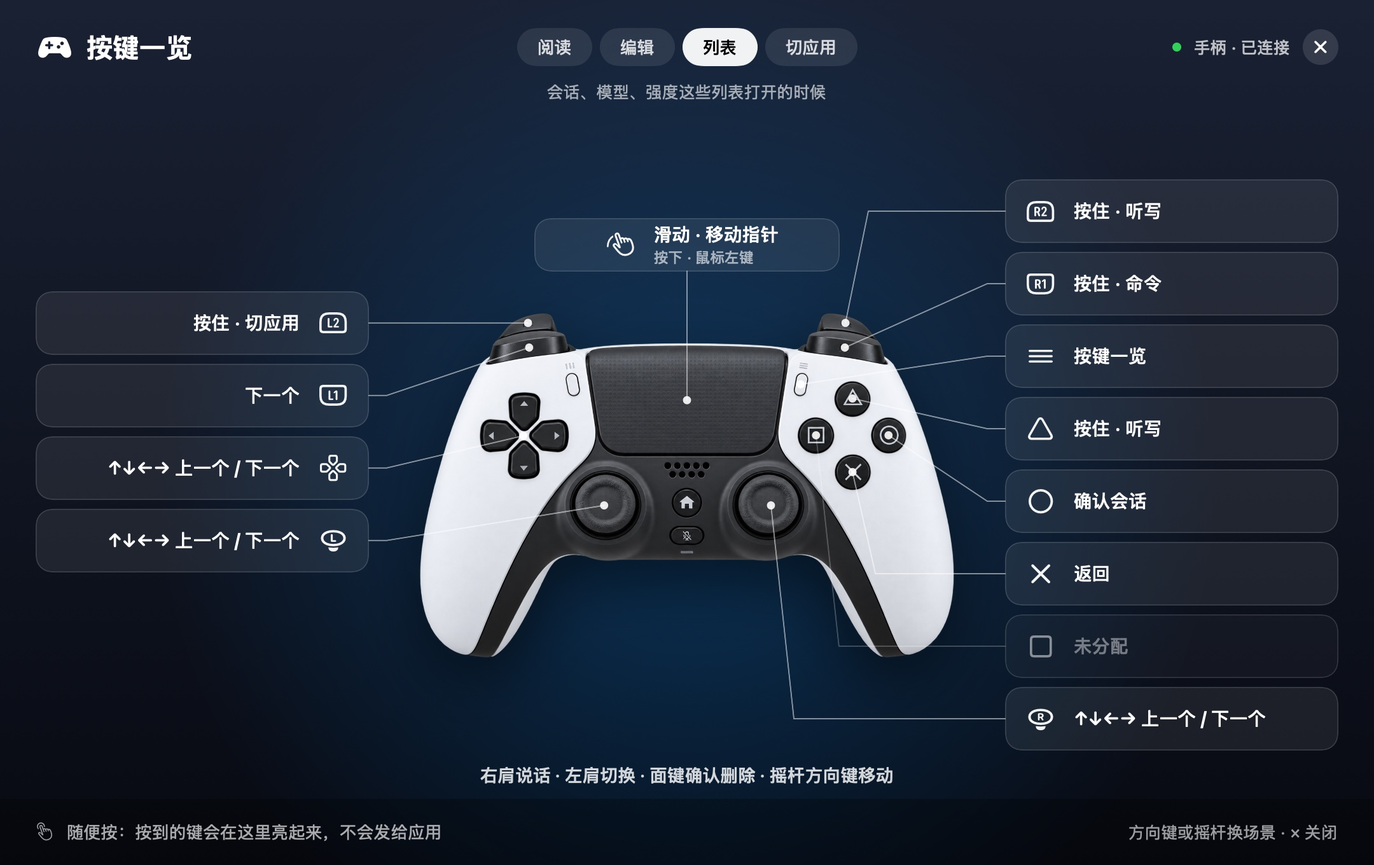
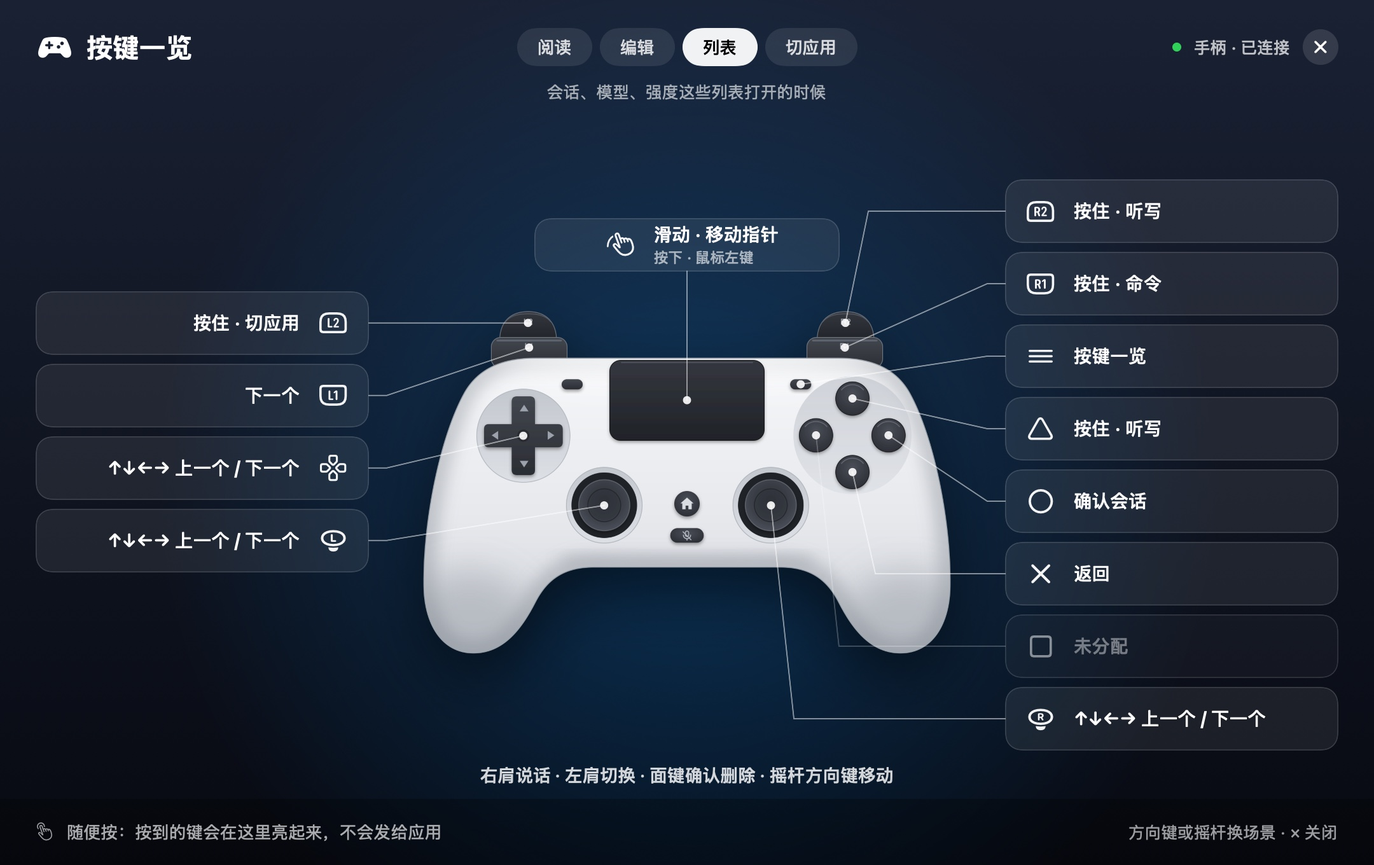
Redraw the controller picture, settle the AU05 key constants, leave a former copy running in a scripted launch
The controller picture was a generated one that had been asked for as "a
recognizable PS5-style silhouette" and carried that controller's two-tone
shell and the four symbols of its action buttons. It is replaced by a
drawing of this project's own, assets/device/gamepad.svg, rendered to
gamepad.png with rsvg-convert: a one-colour shell of a common shape with
four plain action buttons, made without any product photograph and drawn
around the same control centres, so none of the 27 hotspots moved. The
owner looked at it and approved it. The separate cut-out for the overlay,
gamepad-overlay.png, is gone; the overlay uses the same picture.

Made again with it: the cover in both languages and its copies for the
READMEs and the site, the site's device picture, and the four renderings
of the controls card (ControlsCardTests with VIBEWAND_CONTROLS_REVIEW).
Still showing the former picture: the 0.8.1 overlay screenshot in the
READMEs and on the site, the generated four-scene illustration, historical
renderings and concept pictures in the documentation, the published film,
and this repository's history. The 0.11.1 package also still carries it.

The key constants of the AU05 protocol: the owner decided to publish them
as they are. They are the key of the TEA cipher the device's reports use,
identical to those in AU05 Keys's Battery.swift and taken with attribution
under its MIT license; how that project obtained them it does not say.
[…]

Changed region(s): [[0.2792, 0.3397, 0.7134, 0.7721]]

diff --git a/Sources/VibeWandBridge/Overlay.swift b/Sources/VibeWandBridge/Overlay.swift
@@ -405,7 +405,7 @@ private final class CompanionView: NSView {
             rotationUntil = 0
             pulses.removeAll()
             scrollAccumulator = 0
-            deviceImage = state.deviceTemplate == .vibeKey ? Self.loadDeviceImage() : DeviceArtwork.forTemplate(state.deviceTemplate).overlayImage
+            deviceImage = state.deviceTemplate == .vibeKey ? Self.loadDeviceImage() : DeviceArtwork.forTemplate(state.deviceTemplate).image
             needsLayout = true
         }
         let delta = changedTemplate ? 0 : state.rotation - snapshot.rotation
@@ -418,7 +418,7 @@ private final class CompanionView: NSView {
         for control in state.pressed.subtracting(changedTemplate ? [] : snapshot.pressed) { flash(control) }
         snapshot = state
         updateSettingsButton()
-        if deviceImage == nil { deviceImage = deviceTemplate == .vibeKey ? Self.loadDeviceImage() : DeviceArtwork.forTemplate(deviceTemplate).overlayImage }
+        if deviceImage == nil { deviceImage = deviceTemplate == .vibeKey ? Self.loadDeviceImage() : DeviceArtwork.forTemplate(deviceTemplate).image }
         let demoHint = deviceTemplate == .vibeKey
             ? L10n.tr("拖动移动。演示模式可点击、长按按键或滚动旋钮。", "Drag to move. In demo mode, press or hold buttons and scroll the dial.")
             : L10n.tr("拖动移动。演示模式可点击或长按实际按键。", "Drag to move. In demo mode, click or hold the physical controls.")

diff --git a/Sources/VibeWandBridge/App.swift b/Sources/VibeWandBridge/App.swift
@@ -45,7 +45,7 @@ final class AppDelegate: NSObject, NSApplicationDelegate {
         } else if let index = arguments.firstIndex(of: "--film"), arguments.indices.contains(index + 1),
                   let director = try? FilmDirector(script: URL(fileURLWithPath: arguments[index + 1])) {
             film = director; runtime = director.makeRuntime()
-        } else { FormerIdentity.retire(); runtime = BridgeRuntime() }
+        } else { runtime = BridgeRuntime() }
         super.init()
     }
     private var overlay: OverlayController!
@@ -155,6 +155,7 @@ final class AppDelegate: NSObject, NSApplicationDelegate {
         // The guide opens by itself for someone new, and never during a scripted run of the app.
         let scripted = ["--film", "--demo", "--capture-only", "--settings", "--replay-transcript", "--replay-revision", "--vocabulary-path", "--replay-speech", "--speech-test-editor", "--diagnostics-path",
                         "--render-dark", "--render-overlay", "--render-settings", "--render-audit"].contains(where: CommandLine.arguments.contains)
+        if !scripted { FormerIdentity.retire() }
         if CommandLine.arguments.contains("--onboarding") || (guideOwed && !scripted) { presentOnboarding() }
         if CommandLine.arguments.contains("--settings") { openSettings() }
         if CommandLine.arguments.contains("--render-dark") {

diff --git a/Sources/VibeWandBridge/DeviceArtwork.swift b/Sources/VibeWandBridge/DeviceArtwork.swift
@@ -1,7 +1,8 @@
 import AppKit
 
-/// Product photographs with manually inspected control centers. Coordinates use
+/// Device pictures with manually inspected control centers. Coordinates use
 /// the full image rectangle, with the origin at its top-left, before aspect-fit.
+/// The controller is drawn in `assets/device/gamepad.svg`, around these same centers.
 struct DeviceArtwork {
     let imageName: String
     let aspectRatio: CGFloat
@@ -16,11 +17,6 @@ struct DeviceArtwork {
         let image = NSImage(contentsOf: root.appendingPathComponent("assets/device/\(imageName).png"))
         Self.imageCache[imageName] = image
         return image
-    }
-
-    @MainActor var overlayImage: NSImage? {
-        guard imageName == "gamepad" else { return image }
-        return DeviceArtwork(imageName: "gamepad-overlay", aspectRatio: aspectRatio, hotspots: hotspots).image ?? image
     }
 
     static func forTemplate(_ id: DeviceTemplateID) -> DeviceArtwork {

diff --git a/Sources/VibeWandBridge/FormerIdentity.swift b/Sources/VibeWandBridge/FormerIdentity.swift
@@ -23,6 +23,7 @@ enum FormerIdentity {
         settings[adopted] = true
         defaults.setPersistentDomain(settings, forName: domain)
     }
+    /// Not during a scripted run of the app, which is started beside the copy in use.
     static func retire() {
         NSRunningApplication.runningApplications(withBundleIdentifier: InputLink.formerOwner).forEach { $0.terminate() }
     }

diff --git a/docs/licensing-open-items.md b/docs/licensing-open-items.md
@@ -2,9 +2,9 @@
 
 [文档目录 / Documentation](README.md) · [第三方记录 / Third-party notices](../third-party/README.md) · [许可证 / License](../LICENSE)
 
-截至 2026-10-07。0.10.0 到 0.11.0 带着下面这些项发布在私有仓库里，当时采用的是 PolyForm Noncommercial 1.0.0。作者 2026-10-07 为正式开源做了决定：VibeWand 改用 GPL-3.0，另由作者提供商业授权；两个带 copyleft 的库都保留。第 1 到 5 项据此处理完；第 7 项里的标识符当天也改了；作者确认版权归他本人，源码出处指向上游仓库即可。第 6、8 项仍由作者判断。已经发出去的那些版本，仍按发布时的条款。本文是工程上的盘点，不是法律意见。
+截至 2026-10-07。0.10.0 到 0.11.0 带着下面这些项发布在私有仓库里，当时采用的是 PolyForm Noncommercial 1.0.0。作者 2026-10-07 为正式开源做了决定：VibeWand 改用 GPL-3.0，另由作者提供商业授权；两个带 copyleft 的库都保留。第 1 到 5 项据此处理完；第 7 项里的标识符当天也改了；作者确认版权归他本人，源码出处指向上游仓库即可。第 8 项作者当天决定照常公开；第 6 项里手柄图已重画并经作者认可，其余图片仍未核对。已经发出去的那些版本，仍按发布时的条款。本文是工程上的盘点，不是法律意见。
 
-As of 2026-10-07. Versions 0.10.0 to 0.11.0 were published in the private repository with the items below open, under PolyForm Noncommercial 1.0.0. On 2026-10-07 the owner decided, for opening the project: VibeWand moves to the GPL-3.0 with a commercial license available from the author, and both copyleft libraries stay. Items 1 to 5 are settled accordingly, and the identifiers in item 7 were renamed the same day; the owner confirmed that the copyright is his and that pointing at the upstream repositories for source is enough. Items 6 and 8 remain the owner's call. Copies already released keep the terms they were released under. This is an engineering inventory, not legal advice.
+As of 2026-10-07. Versions 0.10.0 to 0.11.0 were published in the private repository with the items below open, under PolyForm Noncommercial 1.0.0. On 2026-10-07 the owner decided, for opening the project: VibeWand moves to the GPL-3.0 with a commercial license available from the author, and both copyleft libraries stay. Items 1 to 5 are settled accordingly, and the identifiers in item 7 were renamed the same day; the owner confirmed that the copyright is his and that pointing at the upstream repositories for source is enough. The owner decided the same day to publish the constants of item 8 as they are; in item 6 the controller picture was redrawn and approved by him, and the other pictures remain unchecked. Copies already released keep the terms they were released under. This is an engineering inventory, not legal advice.
 
 | # | 事项 / Item | 结果 / Outcome | 状态 / Status |
 | --- | --- | --- | --- |
@@ -13,9 +13,9 @@ As of 2026-10-07. Versions 0.10.0 to 0.11.0 were published in the private reposi
 | 3 | 许可文本和声明随包附上 / License texts and notices in the bundle | 已取齐；一个包上游没有发布文本 / collected; one package has no text upstream | 已处理 / done |
 | 4 | SenseVoice 模型的协议要求署名 / The SenseVoice models' terms ask for attribution | 下载处和文档写明了作者与协议；VAD 文件核对过出处 / author and terms stated where the download is offered and in the guide; the VAD file traced to its origin | 已处理 / done |
 | 5 | VibeWand 自己的许可 / VibeWand's own license | `GPL-3.0-only`，另有作者的商业授权；贡献条款已写 / `GPL-3.0-only` with a commercial license from the author; contribution terms written | 已定 / settled |
-| 6 | 设备插画、图标和文档图片 / Device artwork, icon and documentation images | 是否需要进一步核对或替换 / whether any needs clearing or replacing | 未定 / open |
+| 6 | 设备插画、图标和文档图片 / Device artwork, icon and documentation images | 手柄图已重画并经作者认可；其余没有核对 / the controller picture was redrawn and approved by the owner; the rest is not checked | 部分 / partly |
 | 7 | 名称与商标 / Names and trademarks | 免责声明已覆盖被操作的应用；标识符改为 `org.vibewand.bridge` 和 `VibeWandBridge`，输入法组件的标识符因 macOS 的限制保留 / the disclaimers cover the apps operated; the identifiers are now `org.vibewand.bridge` and `VibeWandBridge`, and the input method keeps its identifier because of a macOS limit | 已定，留一处 / settled, one left |
-| 8 | AU05 协议里的密钥常量 / The key constants of the AU05 protocol | 公开是否合适 / whether publishing them is appropriate | 未定 / open |
+| 8 | AU05 协议里的密钥常量 / The key constants of the AU05 protocol | 照常公开 / published as they are | 已定 / settled |
 
 ## 1. sherpa-onnx 预编译库里的 eSpeak NG（GPL-3.0-or-later）
 
@@ -115,10 +115,11 @@ The models are neither shipped nor stored in the repository. When the user asks,
 ## 6. 设备插画、图标和文档图片 / Device artwork, icon and documentation images
 
 - **设备插画**（`assets/device/`，随包分发）。三张图都由图像生成工具生成，不带厂商标志。`controller.png` 生成时参考过厂商的 AU05 产品页，手柄那张的提示词要的是“可辨认的 PS5 风格轮廓”。[`assets/device/README.md`](../assets/device/README.md) 自己写着：反复修改不等于版权清理。外观设计方面没有做过核对。
+- **手柄图已重画（2026-10-07）。**原图换成了本项目自己画的 `assets/device/gamepad.svg`：常见外形的单色外壳，四个动作键不带符号，没有用任何产品照片；应用、README、封面、项目主页的设备图和按键一览的渲染图都换了。还带着原图的有：README 和主页里 0.8.1 的悬浮窗截图、“它能做什么”的四联插画（AI 生成，画里有手柄）、文档里的历史渲染图和概念图、已发布的宣传片，以及仓库的提交历史。
 - **应用图标和首页场景图。**AI 生成，来源和提示词记录在 [`assets/app-icon/README.md`](../assets/app-icon/README.md) 和 [`docs/images/README.md`](images/README.md)。没有核对所用工具对生成图像的条款，AI 生成图像的权利在各地规定不同。
 - **文档里第三方应用的截图**，例如 `docs/images/terminal-v084-codex.jpg`（iTerm2 里的 Codex CLI）。
 
-**Device artwork** (`assets/device/`, shipped in the app): the three pictures were made with an image generation tool and carry no maker's mark. `controller.png` was generated with the maker's AU05 product sheet viewed as a reference, and the prompt for the gamepad asks for “a recognizable PS5-style silhouette”. [`assets/device/README.md`](../assets/device/README.md) itself says that repeated editing is not proof of clearance. Nothing has been checked on the side of design rights. **App icon and hero images**: generated, with sources and prompts recorded in [`assets/app-icon/README.md`](../assets/app-icon/README.md) and [`docs/images/README.md`](images/README.md); the terms of the tool for generated images were not checked, and rights in generated images differ by country. **Screenshots of other apps in the documentation**, such as `docs/images/terminal-v084-codex.jpg` (Codex CLI in iTerm2).
+**The controller picture was redrawn on 2026-10-07.** It is now this project's own drawing, `assets/device/gamepad.svg`: a one-colour shell of a common shape with four plain action buttons, made without any product photograph. The app, the READMEs, the cover, the site's device picture and the renderings of the controls card use it. Still showing the former picture: the 0.8.1 overlay screenshot in the READMEs and on the site, the four-scene illustration under “What it does” (generated, with a controller in it), historical renderings and concept pictures in the documentation, the published film, and the repository's commit history. **Device artwork** (`assets/device/`, shipped in the app): the three pictures were made with an image generation tool and carry no maker's mark. `controller.png` was generated with the maker's AU05 product sheet viewed as a reference, and the prompt for the gamepad asks for “a recognizable PS5-style silhouette”. [`assets/device/README.md`](../assets/device/README.md) itself says that repeated editing is not proof of clearance. Nothing has been checked on the side of design rights. **App icon and hero images**: generated, with sources and prompts recorded in [`assets/app-icon/README.md`](../assets/app-icon/README.md) and [`docs/images/README.md`](images/README.md); the terms of the tool for generated images were not checked, and rights in generated images differ by country. **Screenshots of other apps in the documentation**, such as `docs/images/terminal-v084-codex.jpg` (Codex CLI in iTerm2).
 
 ## 7. 名称与商标 / Names and trademarks
 
@@ -129,9 +130,9 @@ The models are neither shipped nor stored in the repository. When the user asks,
 
 ## 8. AU05 协议里的密钥常量 / The key constants of the AU05 protocol
 
-`Sources/AU05Device/Protocol.swift` 里报文的加解密、命令格式和按键标识改编自 [AU05 Keys](https://github.com/elliclee/ulanzi-au05-keys)（MIT，许可文本已保留在 `third-party/AU05-Keys-LICENSE`）。其中有设备报文加密用的四个密钥常量。仓库和安装包里没有 Ulanzi 的任何二进制或固件。公开这些常量是否合适，由作者判断。
+`Sources/AU05Device/Protocol.swift` 里报文的加解密、命令格式和按键标识改编自 [AU05 Keys](https://github.com/elliclee/ulanzi-au05-keys)（MIT，许可文本已保留在 `third-party/AU05-Keys-LICENSE`）。其中有设备报文加密用的四个密钥常量。仓库和安装包里没有 Ulanzi 的任何二进制或固件。**决定（2026-10-07）：照常公开。**这四个常量是设备报文所用 TEA 算法的密钥，与 AU05 Keys 的 `Battery.swift` 里的完全一致，是随那个项目的 MIT 许可带署名引用的；它最初是怎样得到的，那个项目没有说明，本项目也没有自己提取过。
 
-The report cipher, command formats and button identifiers in `Sources/AU05Device/Protocol.swift` are adapted from [AU05 Keys](https://github.com/elliclee/ulanzi-au05-keys) (MIT, text kept as `third-party/AU05-Keys-LICENSE`). They include the four key constants of the device's report cipher. No Ulanzi binary or firmware is in the repository or the package. Whether publishing the constants is appropriate is the owner's call.
+The report cipher, command formats and button identifiers in `Sources/AU05Device/Protocol.swift` are adapted from [AU05 Keys](https://github.com/elliclee/ulanzi-au05-keys) (MIT, text kept as `third-party/AU05-Keys-LICENSE`). They include the four key constants of the device's report cipher. No Ulanzi binary or firmware is in the repository or the package. **Decided on 2026-10-07: they are published as they are.** The four constants are the key of the TEA cipher the device's reports use, identical to those in AU05 Keys's `Battery.swift` and taken with attribution under that project's MIT license; how that project first obtained them it does not say, and this project never extracted them itself.
 
 ## 没有核对的 / Not checked
 

diff --git a/docs/design-device-assets.md b/docs/design-device-assets.md
@@ -1,17 +1,17 @@
 # Device photography / 设备图像
 
-The redesigned mapping screen uses a recognizable product photograph with selectable hardware controls. These generic controller and remote images were generated with the built-in image-generation tool on 2026-10-04. They contain no manufacturer logos and do not assert hardware compatibility. The existing `controller.png` remains the VibeKey / AU05 asset.
+The redesigned mapping screen uses a recognizable product photograph with selectable hardware controls. The remote image was generated with the built-in image-generation tool on 2026-10-04. The controller was generated the same way and then replaced on 2026-10-07 by a drawing of this project's own, `assets/device/gamepad.svg`: the generated one had been asked for as “a recognizable PS5-style silhouette” and carried that controller's two-tone shell and the four symbols of its action buttons. The drawing is a one-colour shell of a common shape with four plain action buttons, drawn around the same control centers, so no hotspot moved. Neither picture contains a manufacturer's logo or asserts hardware compatibility. The existing `controller.png` remains the VibeKey / AU05 asset.
 
-重新设计的按键配置界面使用真实产品照片风格的设备图像，并在对应实体按键上叠加可交互热点。以下通用手柄和遥控器图像于 2026-10-04 使用内置图像生成工具制作，不带厂商标识，不代表设备兼容性认证。原有 `controller.png` 继续用于 VibeKey / AU05。
+重新设计的按键配置界面使用真实产品照片风格的设备图像，并在对应实体按键上叠加可交互热点。遥控器图像于 2026-10-04 使用内置图像生成工具制作。手柄原先也是这样生成的，2026-10-07 换成了本项目自己画的 `assets/device/gamepad.svg`：生成时的提示词要的是“可辨认的 PS5 风格轮廓”，那张图带着那款手柄的双色外壳和动作键上的四个符号。新图是常见外形的单色外壳，四个动作键不带符号，按原来的按键中心画，所以热点坐标一个都没有动。两张图都不带厂商标识，不代表设备兼容性认证。原有 `controller.png` 继续用于 VibeKey / AU05。
 
 | Asset / 资源 | Native dimensions / 原始尺寸 | Opaque body bounding box / 主体边界（alpha > 128） |
 | --- | --- | --- |
-| `assets/device/gamepad.png` | 1536 × 1024 | (36, 45) – (1500, 990) |
+| `assets/device/gamepad.png`, rendered from `gamepad.svg` with `rsvg-convert -w 1536 -h 1024` / 由 `gamepad.svg` 渲染 | 1536 × 1024 | (45, 39) – (1490, 978) |
 | `assets/device/remote.png` | 1024 × 1536 | (329, 36) – (695, 1500) |
 
-Both files preserve the generated RGBA channel (alpha extrema 0–254). They were copied directly into the project; no programmatic background removal, cropping, or repainting was used. The faint halo visible in some raw previews is fully or almost fully transparent.
+The remote preserves the generated RGBA channel (alpha extrema 0–254) and was copied directly into the project; no programmatic background removal, cropping, or repainting was used. The controller's transparency is the drawing's own. The faint halo visible in some raw previews is fully or almost fully transparent.
 
-两张图均保留生成工具输出的 RGBA 透明通道（alpha 范围 0–254）。图像直接复制进项目，没有使用程序去背景、裁切或重绘；部分原始预览中可见的光晕为完全或几乎完全透明的像素。
+遥控器保留生成工具输出的 RGBA 透明通道（alpha 范围 0–254），直接复制进项目，没有使用程序去背景、裁切或重绘；手柄的透明背景就是那张画自己的；部分原始预览中可见的光晕为完全或几乎完全透明的像素。
 
 ## Hotspots / 热点坐标
 
@@ -64,6 +64,10 @@ Version 0.5.1 adds four selectable directions around each stick center, alongsid
 0.5.1 在每根摇杆中心周围增加四个可选择的方向入口，保留中心按下热点。这些是叠加在原照片上的导航入口，不是额外实体按钮，也没有重新生成设备素材。「摇杆」分组分别列出两根摇杆的上 / 下 / 左 / 右 / 按下。控制器原图与上表的实体按下坐标保持不变。
 
 ## Generation prompts / 生成提示词
+
+The two controller prompts below made the picture used until 2026-10-07. They are kept as history; that picture is no longer in the repository's tree.
+
+下面两段手柄提示词生成的是 2026-10-07 之前使用的那张图，留作记录；那张图已不在仓库的文件里。
 
 ### Controller initial generation
 

diff --git a/docs/images/README.md b/docs/images/README.md
@@ -6,7 +6,7 @@
 
 - `harness-voice-message-v0110.jpg`: actual page screenshot of DeepSeek Harness 0.2.0-rc.2's own web app showing a spoken VibeWand command as a voice message, taken on 2026-10-07 in the Claude desktop app's browser pane from a harness home of the test's own, with the `vibewand-view` bundle of a built 0.11.0 app added by `dsh plugin add`. The command is a test's, its recording a synthetic tone; shown in [Command mode](../command-mode.md#插件模式).
 
-- `controls-card-v0102-zh.jpg`, `controls-card-v0102-en.jpg` and the two `controls-card-v0102-lists-*.jpg`: renderings of the implemented controls card of 0.10.2 for the controller layout, in the editing scene and in the list scene, exported by `ControlsCardTests` with `VIBEWAND_CONTROLS_REVIEW=<folder>` and converted to JPEG with `sips`. The two editing-scene pictures are in the READMEs' device section and, converted with `cwebp`, on the project site as `site/img/controls-zh.webp` and `controls-en.webp`. The test draws VibeWand's own view off screen with the default layout and command mode's key in place; no device was connected and no app was controlled, the “connected” mark in the header is part of the sample state, and the picture has square corners where the live card is rounded on the system's glass. They show what the layout is, not that a physical controller was tried. / 0.10.2 手柄布局的“按键一览”实际渲染图，编辑场景和列表场景各一张，由 `ControlsCardTests` 在设置 `VIBEWAND_CONTROLS_REVIEW=<目录>` 时导出，再用 `sips` 转成 JPEG。编辑场景的两张用在两份 README 的设备一节，并用 `cwebp` 转成 `site/img/controls-zh.webp` 和 `controls-en.webp` 放在项目主页上。测试离屏绘制 VibeWand 自己的视图，用默认布局并带上命令键；没有连接设备，也不操作任何应用，标题栏里的“已连接”是示例状态，图是直角的，而运行中的卡片是系统玻璃上的圆角。它们说明布局是什么，不证明实体手柄试过。
+- `controls-card-v0102-zh.jpg`, `controls-card-v0102-en.jpg` and the two `controls-card-v0102-lists-*.jpg`: renderings of the implemented controls card of 0.10.2 for the controller layout, in the editing scene and in the list scene, exported by `ControlsCardTests` with `VIBEWAND_CONTROLS_REVIEW=<folder>` and converted to JPEG with `sips`. The two editing-scene pictures are in the READMEs' device section and, converted with `cwebp`, on the project site as `site/img/controls-zh.webp` and `controls-en.webp`. The test draws VibeWand's own view off screen with the default layout and command mode's key in place; no device was connected and no app was controlled, the “connected” mark in the header is part of the sample state, and the picture has square corners where the live card is rounded on the system's glass. They show what the layout is, not that a physical controller was tried. / 0.10.2 手柄布局的“按键一览”实际渲染图，编辑场景和列表场景各一张，由 `ControlsCardTests` 在设置 `VIBEWAND_CONTROLS_REVIEW=<目录>` 时导出，再用 `sips` 转成 JPEG。编辑场景的两张用在两份 README 的设备一节，并用 `cwebp` 转成 `site/img/controls-zh.webp` 和 `controls-en.webp` 放在项目主页上。测试离屏绘制 VibeWand 自己的视图，用默认布局并带上命令键；没有连接设备，也不操作任何应用，标题栏里的“已连接”是示例状态，图是直角的，而运行中的卡片是系统玻璃上的圆角。它们说明布局是什么，不证明实体手柄试过。 Exported again on 2026-10-07, with the same layout, after the controller picture was redrawn (`assets/device/gamepad.svg`); the cover pictures were rendered again the same day for the same reason. / 2026-10-07 手柄图重画后按同样的布局重新导出过；封面图同一天也重新渲染了。
 
 - `applications-v080-zh.png` and `applications-v080-en.png`: Chinese and English renderings of the implemented 0.8.0 Applications page, exported by `WorkBuddyTests` with `VIBEWAND_APPLICATIONS_REVIEW=output/release-v0.8.0/ui`. The test renders VibeWand's own hidden view without starting device input or controlling a target app. These images document the settings card, not live WorkBuddy compatibility. / 0.8.0 已实现的中英文应用适配页面，由隐藏窗口测试渲染，只证明设置卡片的实现，不是 WorkBuddy 实机或硬件验收记录。
 

diff --git a/docs/overlay-image-prompts.md b/docs/overlay-image-prompts.md
@@ -12,4 +12,4 @@ Output: `docs/images/overlay-liquid-glass-concept.png`.
 
 Use case: background-extraction. Edit target: attached existing white-and-black controller product photograph. Remove only the entire studio background and all empty areas between/around the grips, yielding genuine transparent alpha. Preserve the exact controller shape, button positions, symbols, plastic texture, proportions, front-on view and neutral white/black color. Keep internal dark touchpad and controller body opaque; remove external background, not black parts of the device. Output a clean transparent cutout with the same 3:2 framing, no shadow rectangle, no extra text, no new branding, no changes to physical buttons. This cutout will be placed on a native macOS glass HUD.
 
-Output: `assets/device/gamepad-overlay.png`. Transparent background requested; alpha was checked at two background points (0) and inside the controller body (0.992).
+Output: `assets/device/gamepad-overlay.png`, removed on 2026-10-07 together with the generated controller picture it was cut from; the overlay now uses the drawn `assets/device/gamepad.png` itself. Transparent background requested; alpha was checked at two background points (0) and inside the controller body (0.992).

diff --git a/assets/device/README.md b/assets/device/README.md
@@ -9,3 +9,7 @@ Generation prompt: original front-on premium satin-silver handheld controller, o
 Refinement prompt: preserve dial/key geometry for software hit regions, replace vertical grille slots with three horizontal microperforation rows, smoother pearl-silver material, restrained precision details, true alpha background.
 
 The App adds its own transient rings and direction indicators over the asset. macOS panel materials, typography and colors are rendered natively.
+
+# Game controller drawing
+
+`gamepad.svg` is this project's own drawing of a game controller, made on 2026-10-07, and `gamepad.png` is its rendering (`rsvg-convert -w 1536 -h 1024 gamepad.svg -o gamepad.png`). It replaced a generated picture that had been asked for as a recognizable PS5-style silhouette. The drawing is a one-colour shell of a common shape; its four action buttons carry no symbols, and its shoulder buttons are labelled L1, L2, R1 and R2. No product photograph or other maker's artwork was used. The centres of its controls are the hotspots in `Sources/VibeWandBridge/DeviceArtwork.swift`: move a control in the drawing and there together, and render again. The site's `img/device-gamepad.webp` is `cwebp -q 86 -resize 900 600` of the PNG.
